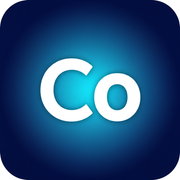
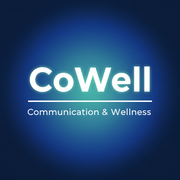
PWAアイコンを Co → CoWell + Communication & Wellness にリデザイン
- gen_icon.js のプロンプトを更新:
  - "CoWell" 大書きをセンターに
  - 細い白いディバイダー + 小さな "COMMUNICATION & WELLNESS" タグライン
  - 同じ navy → cyan 放射グラデ + ミントの内側グロー (wellness暗示)
- 6サイズ全部 (master/512/192/180/32/16) を再生成
- manifest.json?v=2 → v=3 にバンプして PWA 端末の自動再取得を促進

diff --git a/scripts/gen_icon.js b/scripts/gen_icon.js
@@ -13,23 +13,28 @@ const fs = require('fs');
 const path = require('path');
 const sharp = require('sharp');
 
-const PROMPT = `A clean, modern mobile app icon for "CoHub" - a virtual office collaboration platform.
+const PROMPT = `A clean, modern mobile app icon for "CoWell" - Communication & Wellness platform.
 Square format, exactly 1:1 aspect ratio.
 
-Design: A bold, stylized "Co" monogram in pure white, centered on a vivid radial gradient background.
-Background gradient: from deep navy (#0f172a) at the corners, through royal blue (#1e40af) in the middle ring, to bright cyan (#06b6d4) at the center, creating a soft glow behind the monogram.
-The "Co" letters: bold, geometric sans-serif, tightly kerned, slightly rounded corners, with a very subtle white inner glow, occupying about 45% of the icon width, perfectly centered.
+Design layout (top to bottom, all centered horizontally):
+1. The brand wordmark "CoWell" in pure white, bold geometric sans-serif, slightly rounded corners, tightly kerned, occupying about 55% of the icon width, positioned in the upper-middle area of the icon.
+2. A thin elegant white horizontal divider line below "CoWell" (about 35% width, 2-3px thick, 60% opacity).
+3. Below the divider, the tagline "Communication & Wellness" in a smaller, clean sans-serif uppercase, white at 80% opacity, letter-spaced slightly, occupying about 65% of the icon width.
 
-Style: flat design with subtle depth, premium feel, friendly yet professional, suitable for a corporate productivity app.
+Background: vivid radial gradient — from deep navy (#0f172a) at the corners, through royal blue (#1e40af) in the middle ring, to a soft teal-cyan (#06b6d4) glow at the center behind the wordmark.
+Subtle accent: a faint mint-green (#10b981) inner glow around the "CoWell" letters to hint at the wellness aspect.
+
+Style: flat design with subtle depth, premium feel, friendly yet professional, suitable for a corporate productivity + health app.
 
 CRITICAL constraints:
-- Plain gradient background only - NO scenes, NO buildings, NO people, NO additional shapes or decorations
-- All visual content must stay within the center 80% (safe zone for Android maskable adaptive icons)
-- The only text is the "Co" monogram - absolutely no other letters, words, or numbers
-- Must remain clearly readable when scaled down to 32x32 pixels
+- Plain gradient background only - NO scenes, NO buildings, NO people, NO icons, NO additional decorations
+- All text and visual content must stay within the center 80% (safe zone for Android maskable adaptive icons)
+- ONLY the texts "CoWell" and "Communication & Wellness" appear - no other letters, words, or numbers
+- "CoWell" must remain clearly readable when scaled to 64x64 pixels (the tagline may become unreadable at small sizes, that's OK)
 - No drop shadow that extends beyond the canvas edges
 - Do not add a frame or border
-- Background must reach all four edges of the canvas`;
+- Background must reach all four edges of the canvas
+- Spell exactly: "CoWell" (capital C, lowercase o, capital W, lowercase e, lowercase l, lowercase l) and "Communication & Wellness" with a literal ampersand`;
 
 (async () => {
   const apiKey = process.env.GEMINI_API_KEY;

diff --git a/public/index.html b/public/index.html
@@ -7,7 +7,7 @@
 <link rel="icon" type="image/png" sizes="32x32" href="/img/favicon-32.png">
 <link rel="icon" type="image/png" sizes="16x16" href="/img/favicon-16.png">
 <link rel="apple-touch-icon" href="/img/apple-touch-icon.png">
-<link rel="manifest" href="/manifest.json?v=2">
+<link rel="manifest" href="/manifest.json?v=3">
 <meta name="theme-color" content="#0f172a">
 <meta name="apple-mobile-web-app-capable" content="yes">
 <meta name="apple-mobile-web-app-status-bar-style" content="black-translucent">

diff --git a/public/board.html b/public/board.html
@@ -6,7 +6,7 @@
 <title>📋 社内掲示板 — CoWell</title>
 <link rel="icon" type="image/png" sizes="32x32" href="/img/favicon-32.png">
 <link rel="apple-touch-icon" href="/img/apple-touch-icon.png">
-<link rel="manifest" href="/manifest.json?v=2">
+<link rel="manifest" href="/manifest.json?v=3">
 <meta name="theme-color" content="#0891b2">
 <style>
 * { box-sizing: border-box; -webkit-tap-highlight-color: transparent; }

diff --git a/public/ops.html b/public/ops.html
@@ -6,7 +6,7 @@
 <title>🚛 業務連絡 — CoWell</title>
 <link rel="icon" type="image/png" sizes="32x32" href="/img/favicon-32.png">
 <link rel="apple-touch-icon" href="/img/apple-touch-icon.png">
-<link rel="manifest" href="/manifest.json?v=2">
+<link rel="manifest" href="/manifest.json?v=3">
 <meta name="theme-color" content="#7c3aed">
 <style>
 * { box-sizing: border-box; -webkit-tap-highlight-color: transparent; }

diff --git a/public/announcements.html b/public/announcements.html
@@ -6,7 +6,7 @@
 <title>📢 告知 — CoWell</title>
 <link rel="icon" type="image/png" sizes="32x32" href="/img/favicon-32.png">
 <link rel="apple-touch-icon" href="/img/apple-touch-icon.png">
-<link rel="manifest" href="/manifest.json?v=2">
+<link rel="manifest" href="/manifest.json?v=3">
 <meta name="theme-color" content="#dc2626">
 <style>
 * { box-sizing: border-box; -webkit-tap-highlight-color: transparent; }

diff --git a/public/admin.html b/public/admin.html
@@ -7,7 +7,7 @@
 <link rel="icon" type="image/png" sizes="32x32" href="/img/favicon-32.png">
 <link rel="icon" type="image/png" sizes="16x16" href="/img/favicon-16.png">
 <link rel="apple-touch-icon" href="/img/apple-touch-icon.png">
-<link rel="manifest" href="/manifest.json?v=2">
+<link rel="manifest" href="/manifest.json?v=3">
 <meta name="theme-color" content="#0f172a">
 <style>
 * { box-sizing: border-box; }

diff --git a/public/mylog.html b/public/mylog.html
@@ -7,7 +7,7 @@
 <link rel="icon" type="image/png" sizes="32x32" href="/img/favicon-32.png">
 <link rel="icon" type="image/png" sizes="16x16" href="/img/favicon-16.png">
 <link rel="apple-touch-icon" href="/img/apple-touch-icon.png">
-<link rel="manifest" href="/manifest.json?v=2">
+<link rel="manifest" href="/manifest.json?v=3">
 <meta name="theme-color" content="#0f172a">
 <style>
 * { box-sizing: border-box; }

diff --git a/public/m.html b/public/m.html
@@ -16,7 +16,7 @@
 })();
 </script>
 <style>html.boot-auth #login { display: none; }</style>
-<link rel="manifest" href="/manifest.json?v=2">
+<link rel="manifest" href="/manifest.json?v=3">
 <link rel="apple-touch-icon" href="/img/apple-touch-icon.png">
 <link rel="icon" type="image/png" sizes="32x32" href="/img/favicon-32.png">
 <style>
